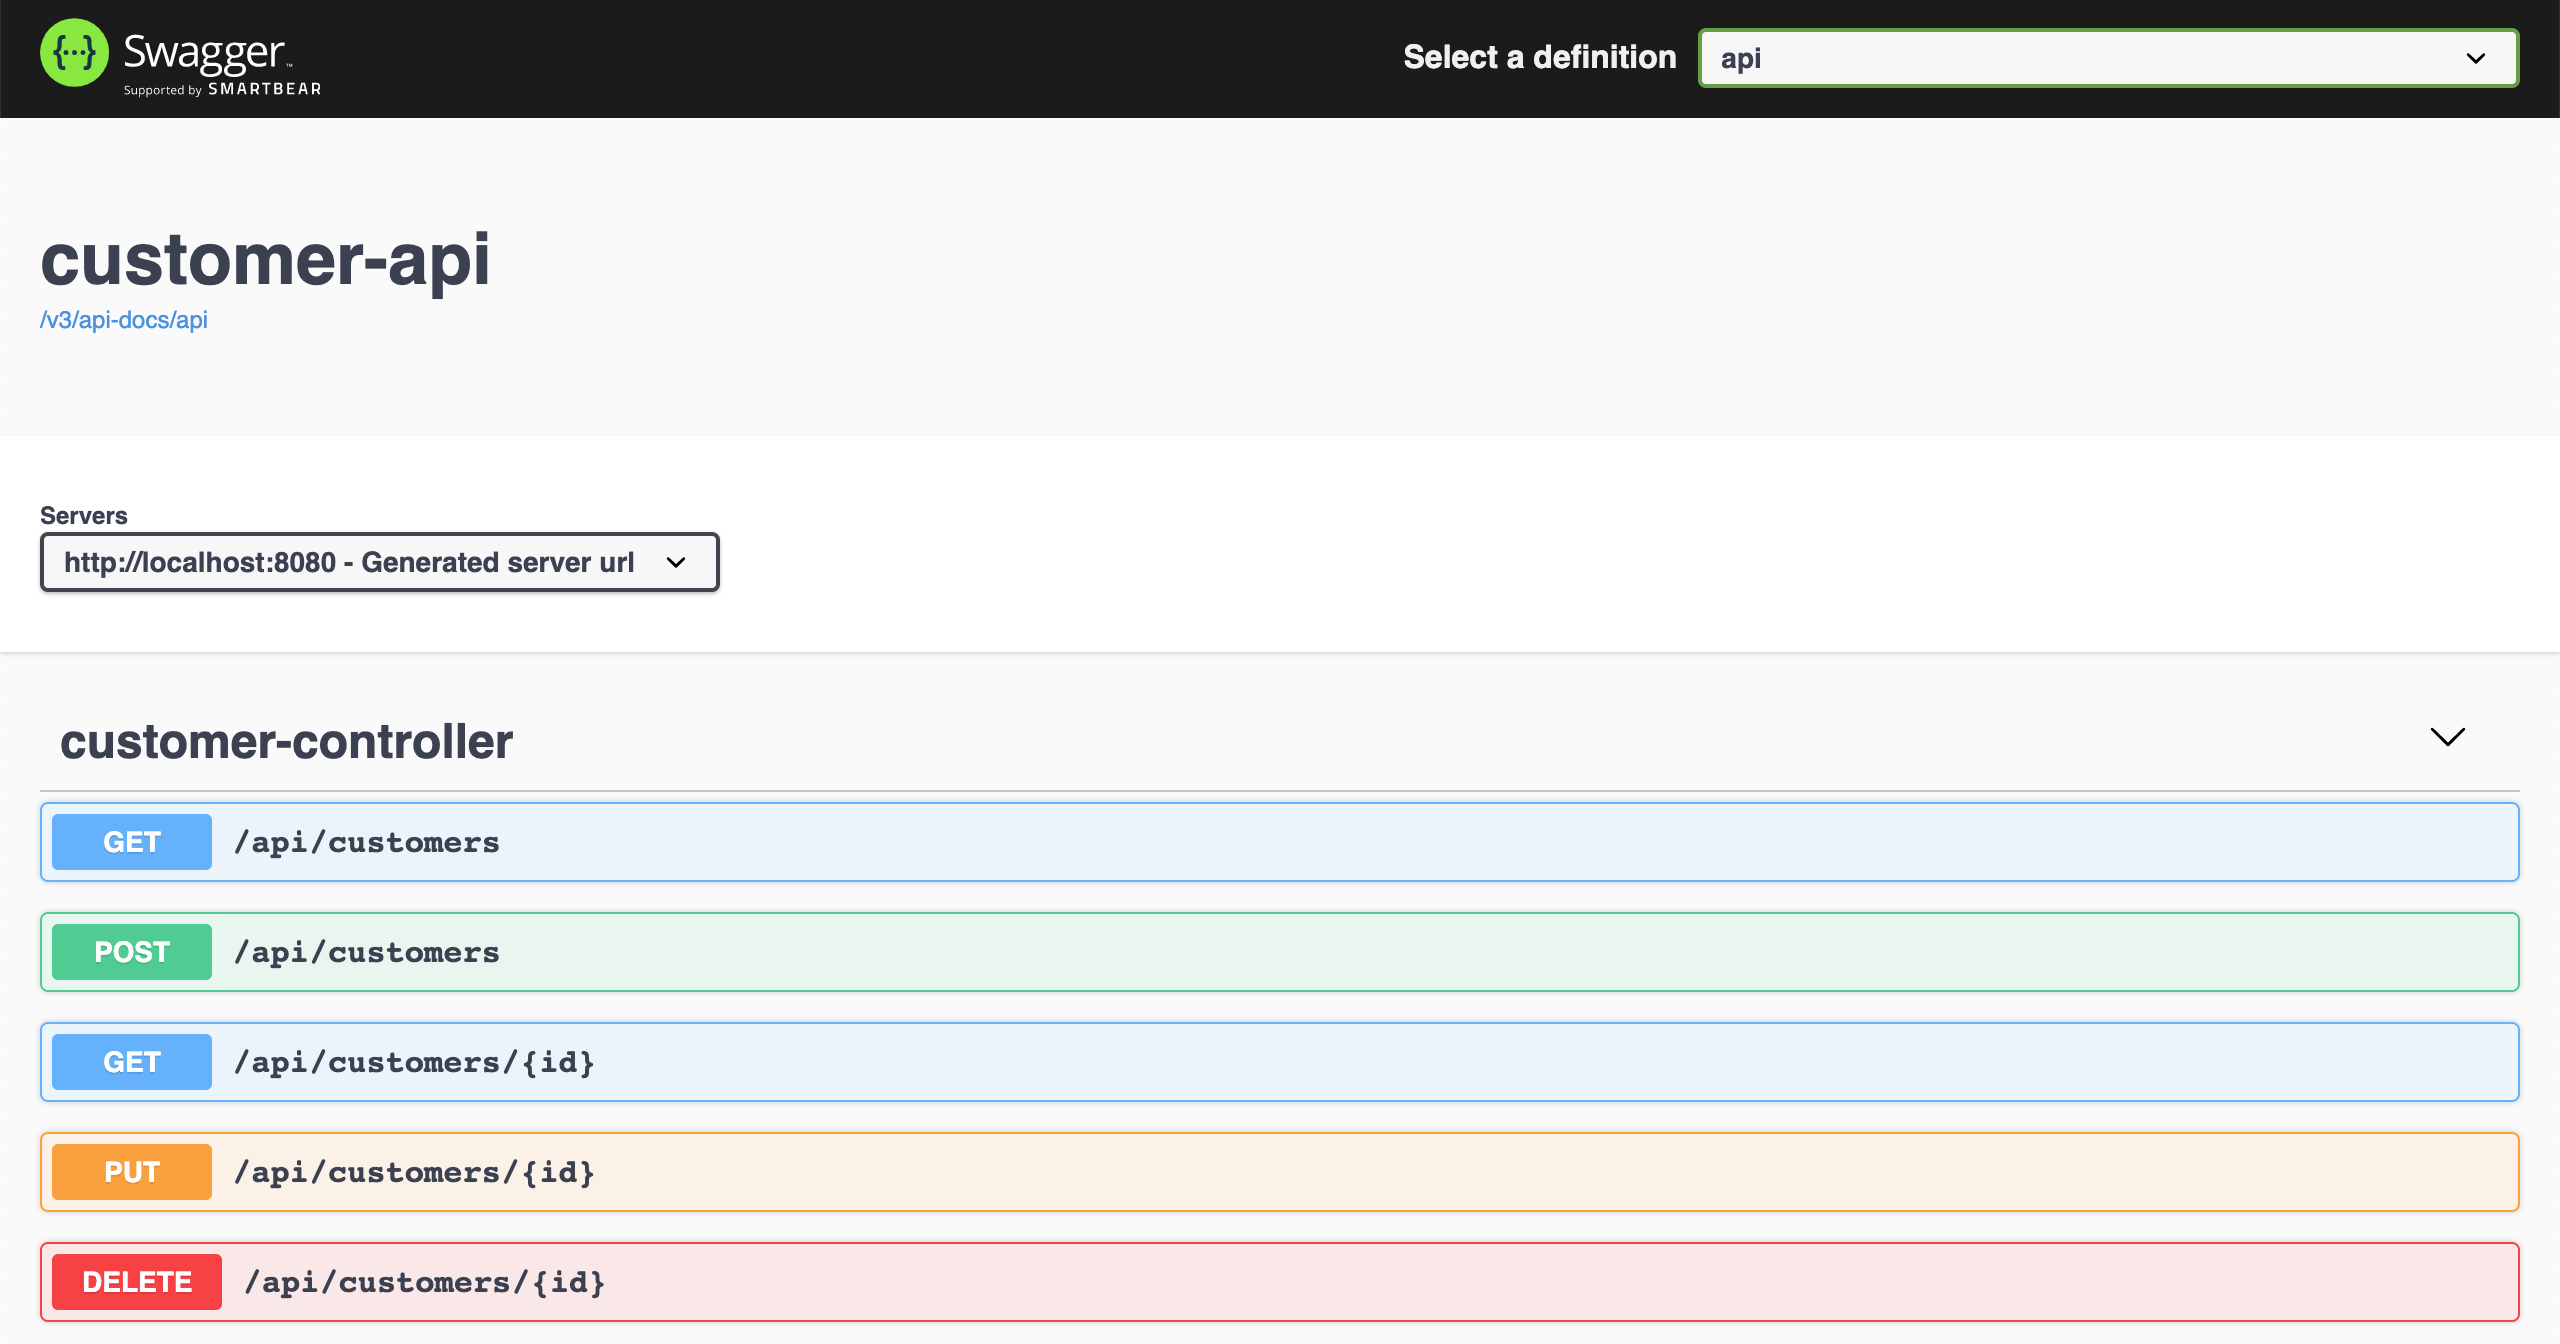
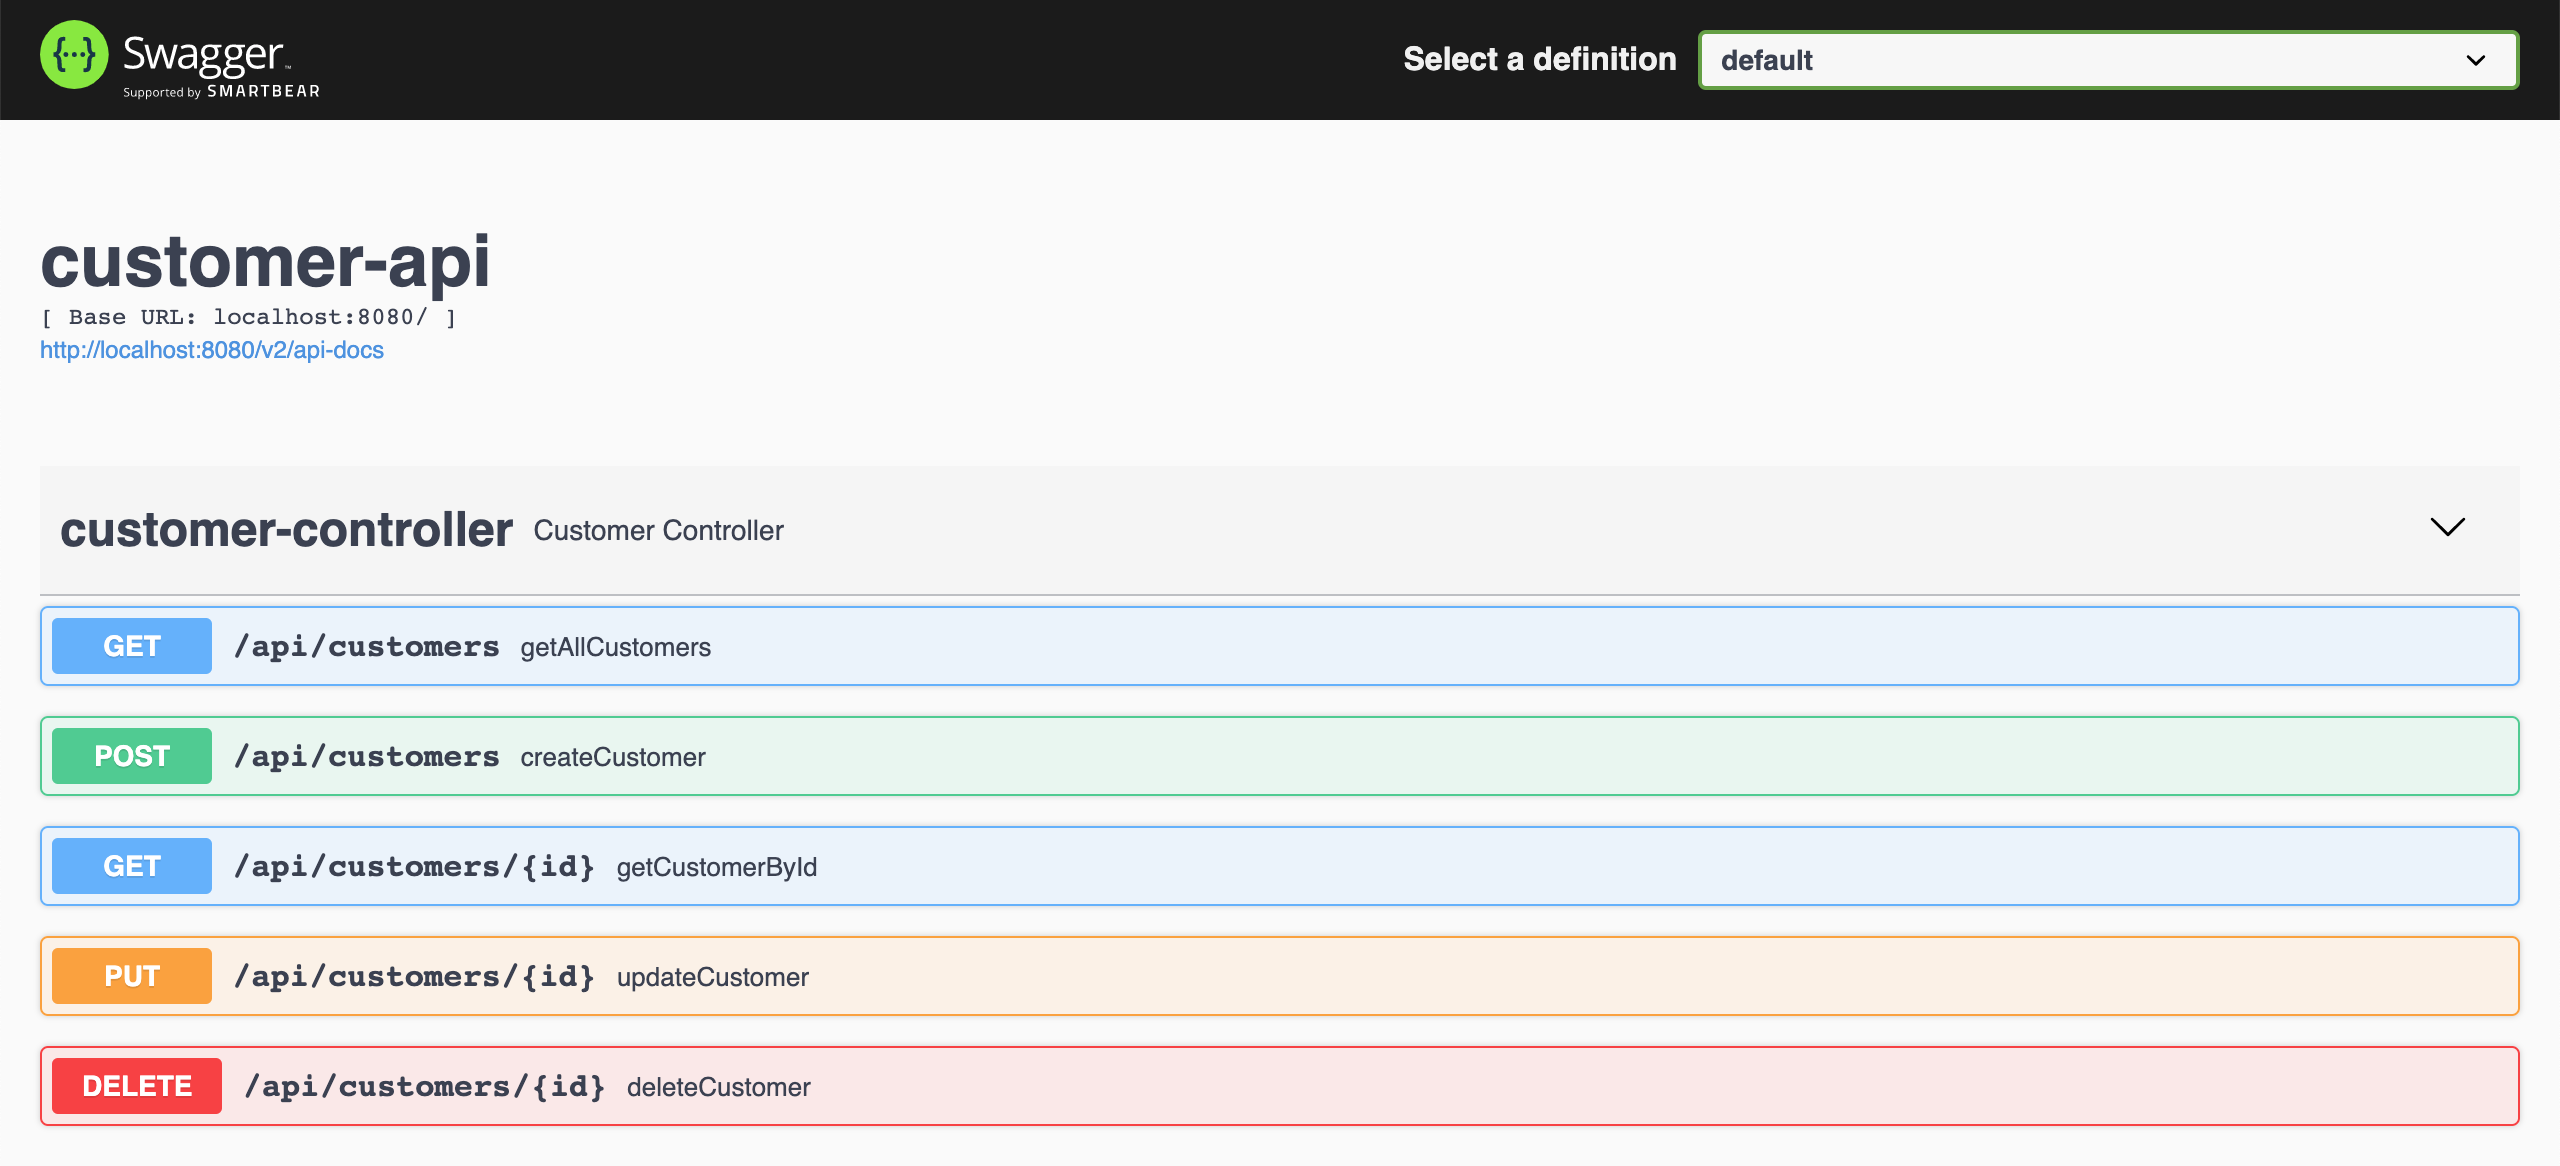
project update - update to spring-boot version 2.3.4; - replace springdoc openapi to springfox.

Changed region(s): [[0.0, 0.3705, 1.0, 0.988], [0.0, 0.0, 1.0, 0.1235], [0.0, 0.1544, 0.1875, 0.3087]]

diff --git a/customer-api/src/main/java/com/mycompany/customerapi/config/SwaggerConfig.java b/customer-api/src/main/java/com/mycompany/customerapi/config/SwaggerConfig.java
@@ -1,12 +1,16 @@
 package com.mycompany.customerapi.config;
 
-import io.swagger.v3.oas.models.Components;
-import io.swagger.v3.oas.models.OpenAPI;
-import io.swagger.v3.oas.models.info.Info;
-import org.springdoc.core.GroupedOpenApi;
 import org.springframework.beans.factory.annotation.Value;
 import org.springframework.context.annotation.Bean;
 import org.springframework.context.annotation.Configuration;
+import springfox.documentation.builders.RequestHandlerSelectors;
+import springfox.documentation.service.ApiInfo;
+import springfox.documentation.spi.DocumentationType;
+import springfox.documentation.spring.web.plugins.Docket;
+
+import java.util.Collections;
+
+import static springfox.documentation.builders.PathSelectors.regex;
 
 @Configuration
 public class SwaggerConfig {
@@ -15,18 +19,18 @@ public class SwaggerConfig {
     private String applicationName;
 
     @Bean
-    public OpenAPI customOpenAPI() {
-        return new OpenAPI().components(new Components()).info(new Info().title(applicationName));
+    Docket api() {
+        return new Docket(DocumentationType.SWAGGER_2)
+                .select()
+                .apis(RequestHandlerSelectors.any())
+                .paths(regex("/api/.*"))
+                .build()
+                .useDefaultResponseMessages(false)
+                .apiInfo(getApiInfo());
     }
 
-    @Bean
-    public GroupedOpenApi customApi() {
-        return GroupedOpenApi.builder().group("api").pathsToMatch("/api/**").build();
-    }
-
-    @Bean
-    public GroupedOpenApi actuatorApi() {
-        return GroupedOpenApi.builder().group("actuator").pathsToMatch("/actuator/**").build();
+    private ApiInfo getApiInfo() {
+        return new ApiInfo(applicationName, null, null, null, null, null, null, Collections.emptyList());
     }
 
 }

diff --git a/README.md b/README.md
@@ -118,7 +118,7 @@ The goal of this project is to use [`ProxySQL`](https://proxysql.com/) to load b
   ./mvnw clean spring-boot:run --projects customer-api
   ```
 
-- The application Swagger website is http://localhost:8080/swagger-ui.html
+- The application Swagger website is http://localhost:8080/swagger-ui/index.html
 
 ## Simulation
 
@@ -190,7 +190,7 @@ The goal of this project is to use [`ProxySQL`](https://proxysql.com/) to load b
    | 2020-06-30 08:04:10.422544 | Query        | select customer0_.id as id1_0_0_, customer0_.created_at as created_2_0_0_, customer0_.first_name as first_na3_0_0_, customer0_.last_name as last_nam4_0_0_, customer0_.updated_at as updated_5_0_0_ from customers customer0_ where customer0_.id=1 |
    +----------------------------+--------------+-----------------------------------------------------------------------------------------------------------------------------------------------------------------------------------------------------------------------------------------------------+
    ```
-   > **Note:** Just one slave should processed it.
+   > **Note:** Just one slave should process it.
 
 1. Next, let's `UPDATE` the `customer 1`. For it, go to the `curl` terminal and run
    ```
